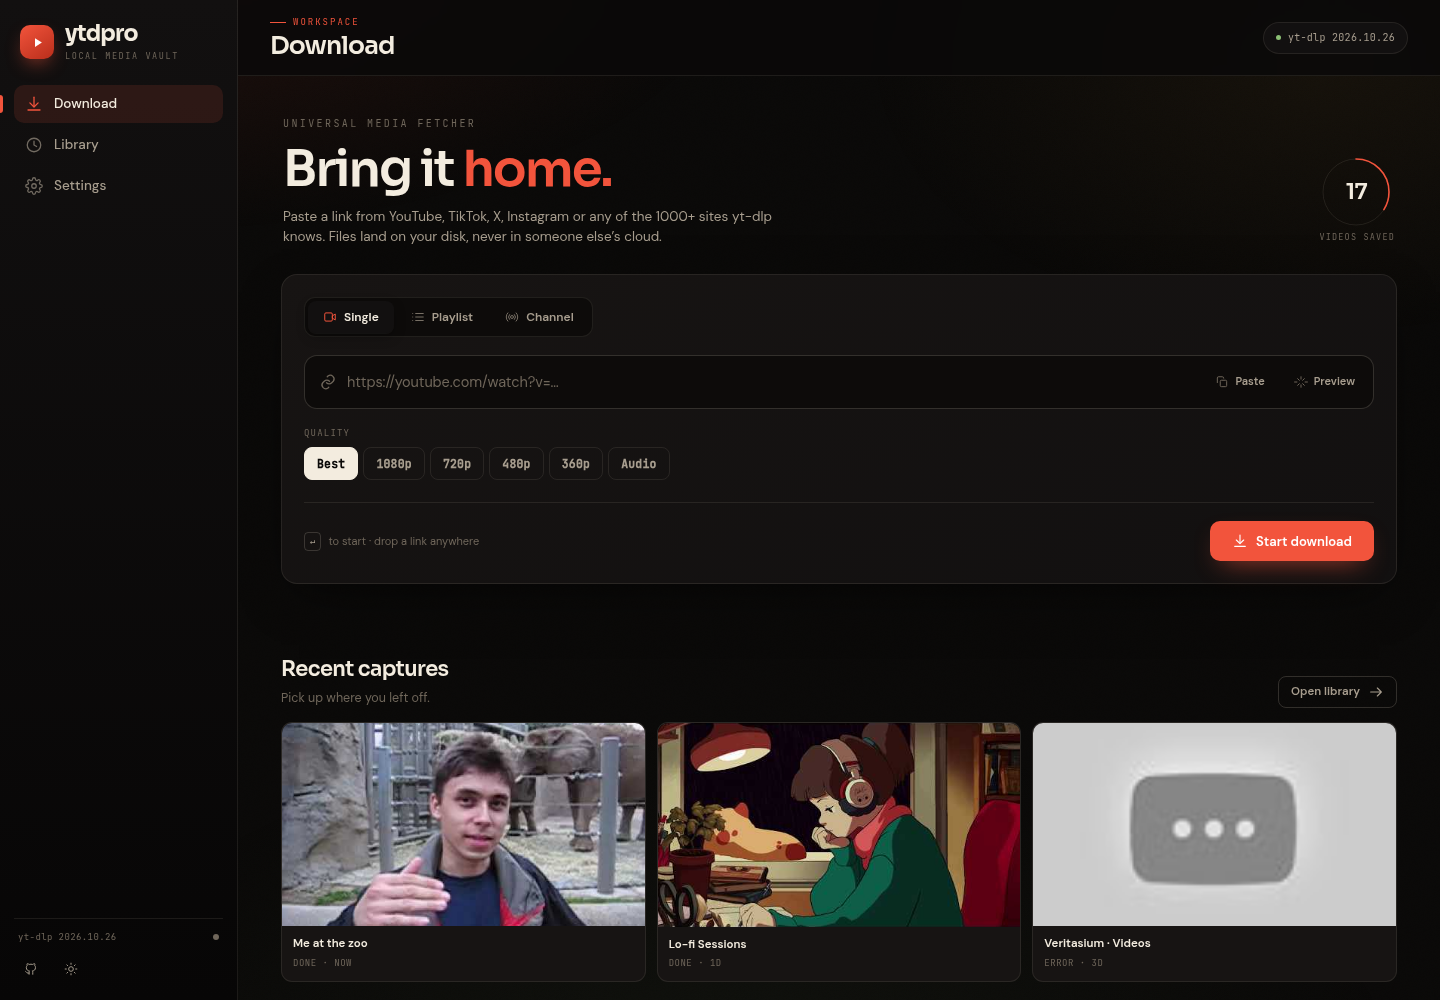
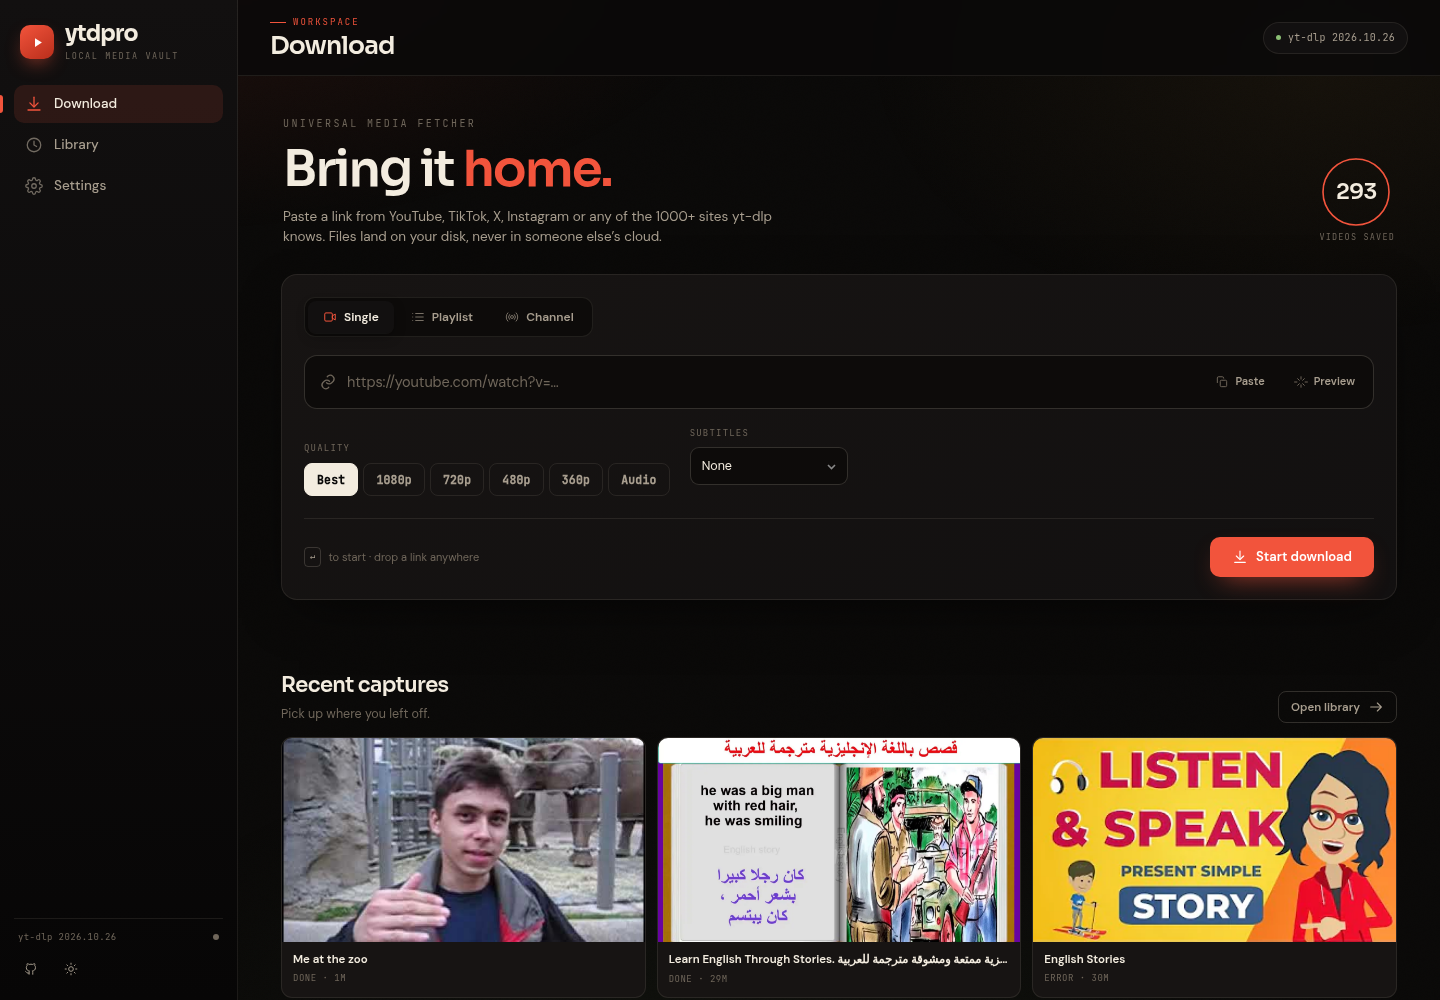
fix: track the merged file after post-processing
- add postprocessor hooks so the library points at Title.mp4, not the
  leftover audio component (Title.f251.webm)
- prefer the final container extension when resolving the output path
- refresh screenshots with the new subtitle selector

diff --git a/server.py b/server.py
@@ -555,6 +555,25 @@ def make_video_hook(job_id: str, video_id: str):
     return hook
 
 
+def make_postproc_hook(job_id: str, video_id: str):
+    """After merge/post-processing, remember the real final file."""
+    def hook(d):
+        if d.get("status") != "finished":
+            return
+        info = d.get("info_dict") or {}
+        path = info.get("filepath")
+        if not path:
+            return
+        with jobs_lock:
+            job = jobs.get(job_id)
+            if not job:
+                return
+            vid = next((v for v in job["videos"] if v["id"] == video_id), None)
+            if vid:
+                vid["filepath"] = path
+    return hook
+
+
 # ── Scanning ──────────────────────────────────────────────────────────────────
 def scan_videos(job_id: str, url: str, extra_opts: dict = None) -> list:
     opts = {"quiet": True, "extract_flat": True,
@@ -627,12 +646,14 @@ def _resolve_output(path, ext: str):
     if not path:
         return None
     p = Path(path)
-    if p.exists() and p.is_file():
-        return p
+    # Prefer the merged/post-processed artefact (e.g. Title.mp4) over a
+    # leftover component file (e.g. Title.f251.webm).
     for candidate in [p.with_suffix("." + ext), p.with_suffix(".mp4"), p.with_suffix(".mkv"),
                       p.with_suffix(".webm"), p.with_suffix(".mp3"), p.with_suffix(".m4a")]:
-        if candidate.exists():
+        if candidate.exists() and candidate.is_file():
             return candidate
+    if p.exists() and p.is_file():
+        return p
     try:
         for candidate in p.parent.glob(p.stem + ".*"):
             if candidate.suffix.lower() in (".part", ".ytdl", ".temp", ".json"):
@@ -662,7 +683,8 @@ def download_one(job_id: str, video: dict, base_opts: dict, ext: str = "mp4") ->
         return False
 
     opts = {**base_opts, "noplaylist": True,
-            "progress_hooks": [make_video_hook(job_id, vid_id)]}
+            "progress_hooks": [make_video_hook(job_id, vid_id)],
+            "postprocessor_hooks": [make_postproc_hook(job_id, vid_id)]}
     if "%(playlist_index)" in str(opts.get("outtmpl", "")):
         opts["outtmpl"] = _video_outtmpl(opts["outtmpl"], video.get("index"))
 
